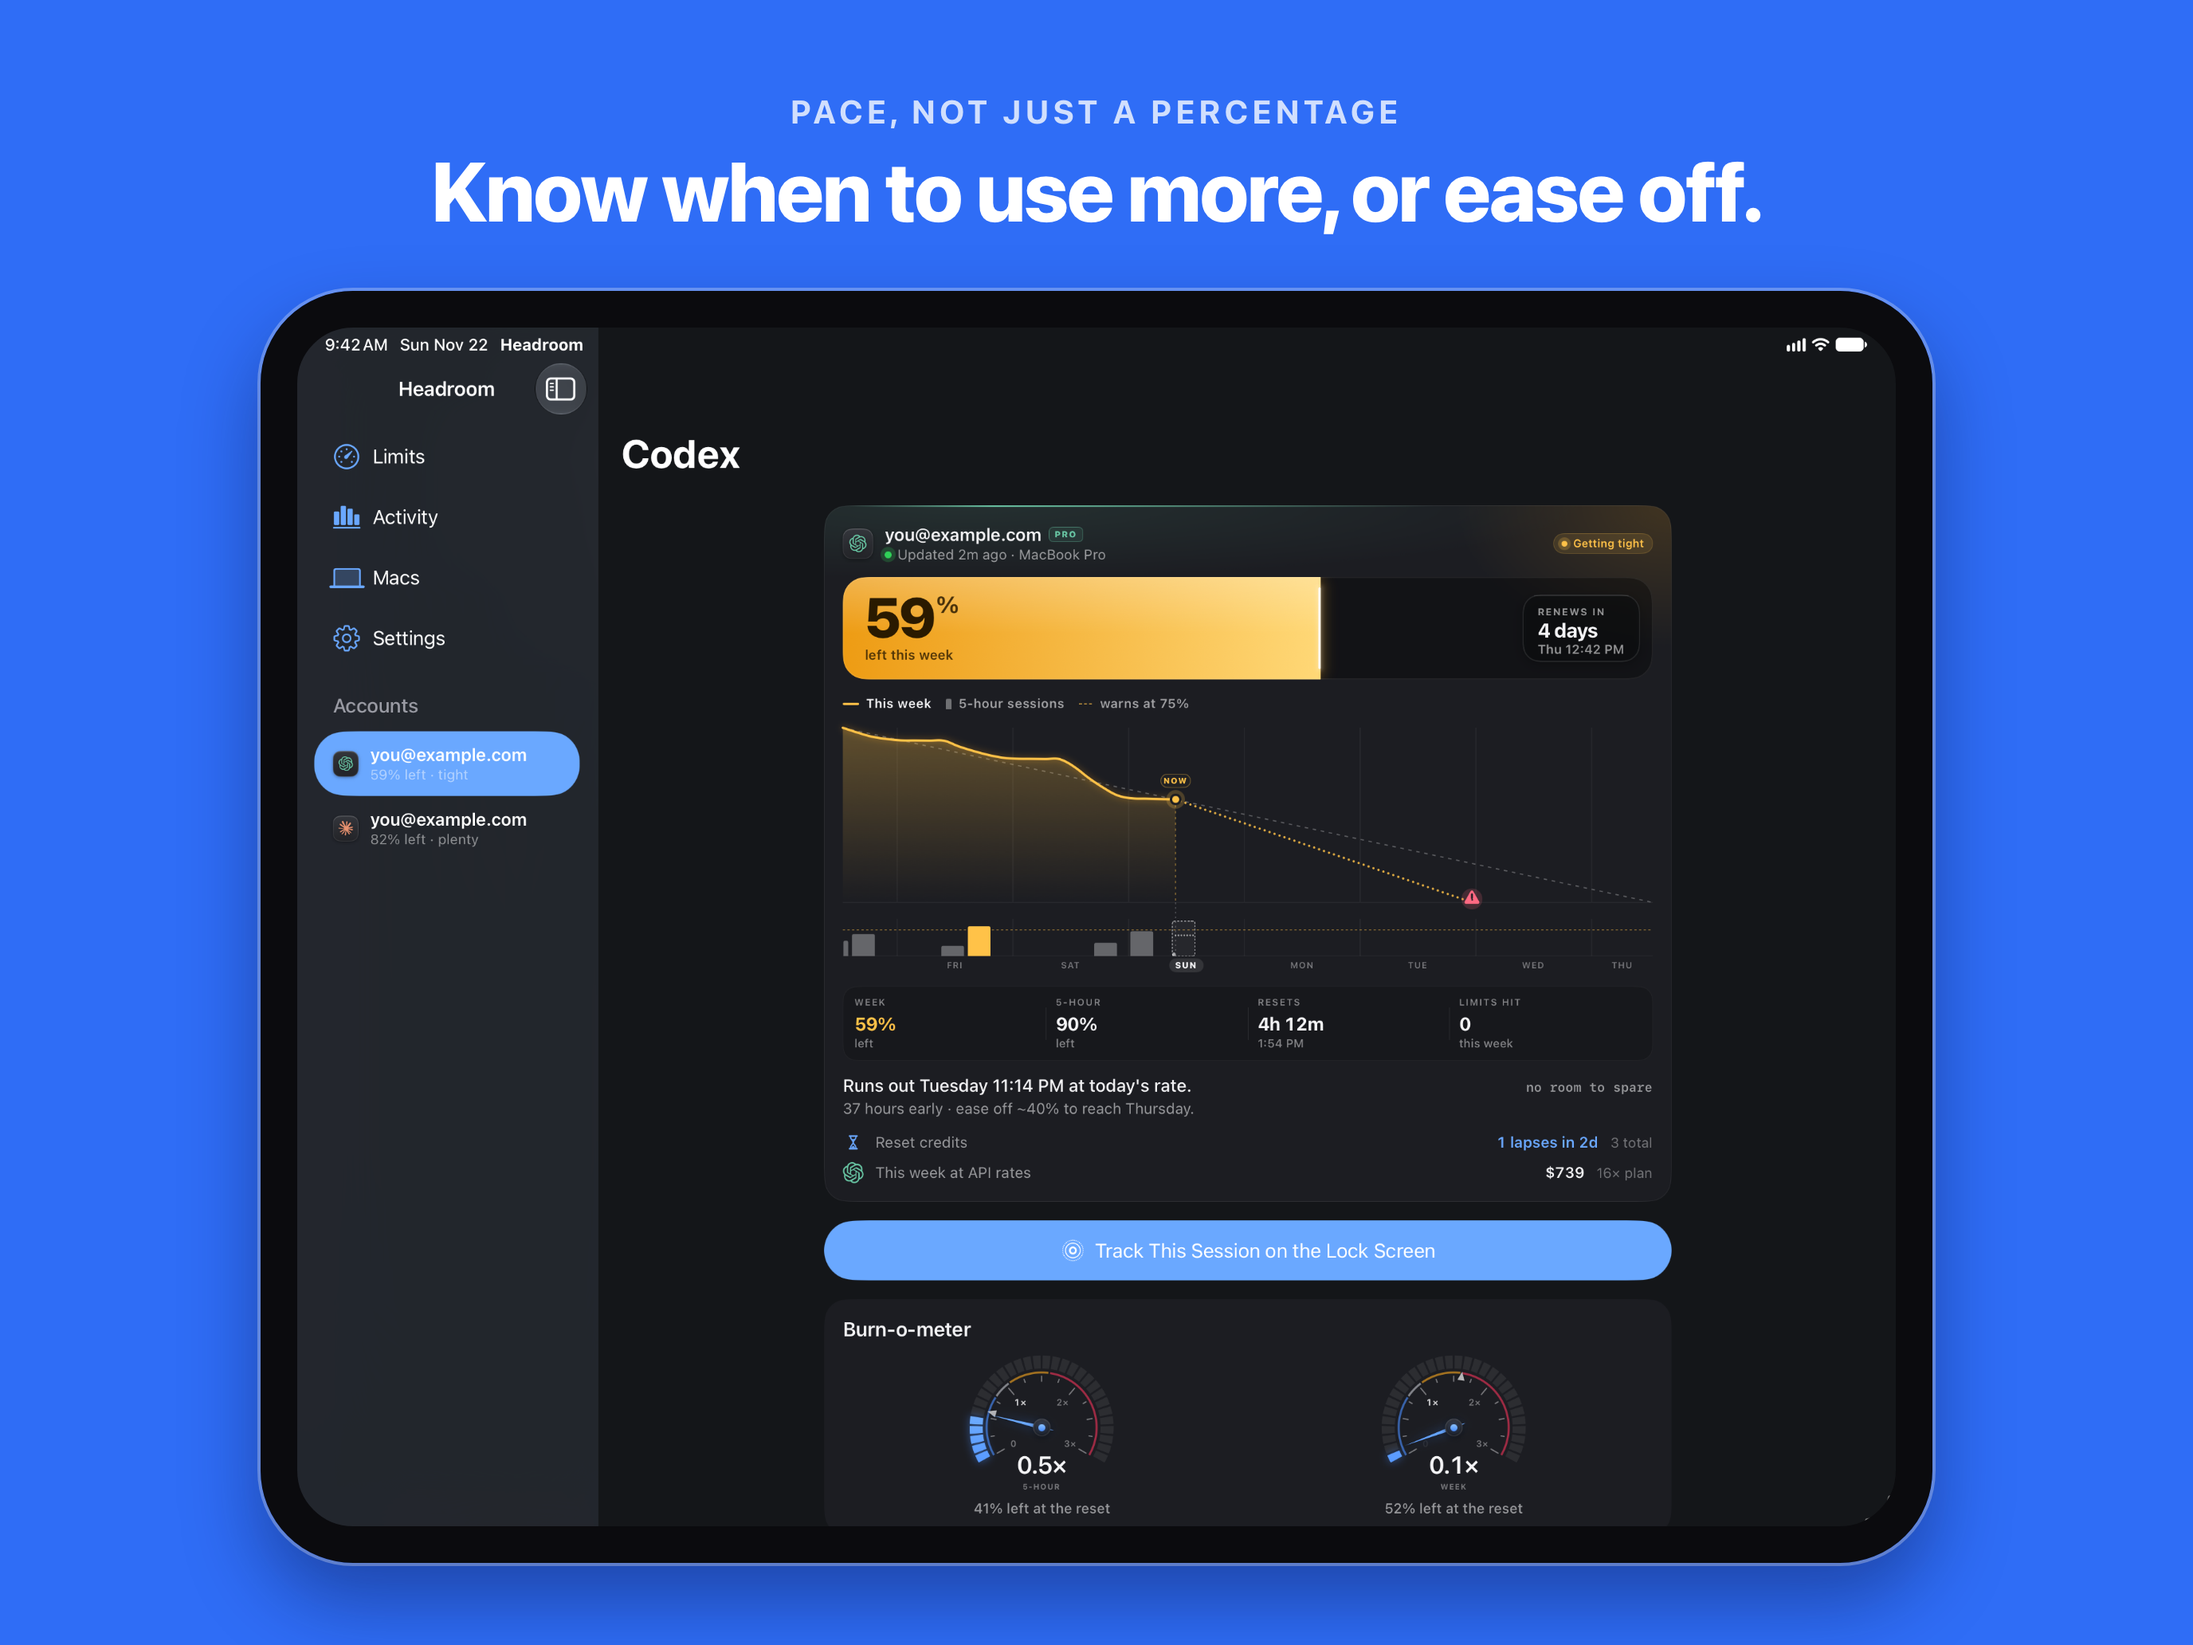
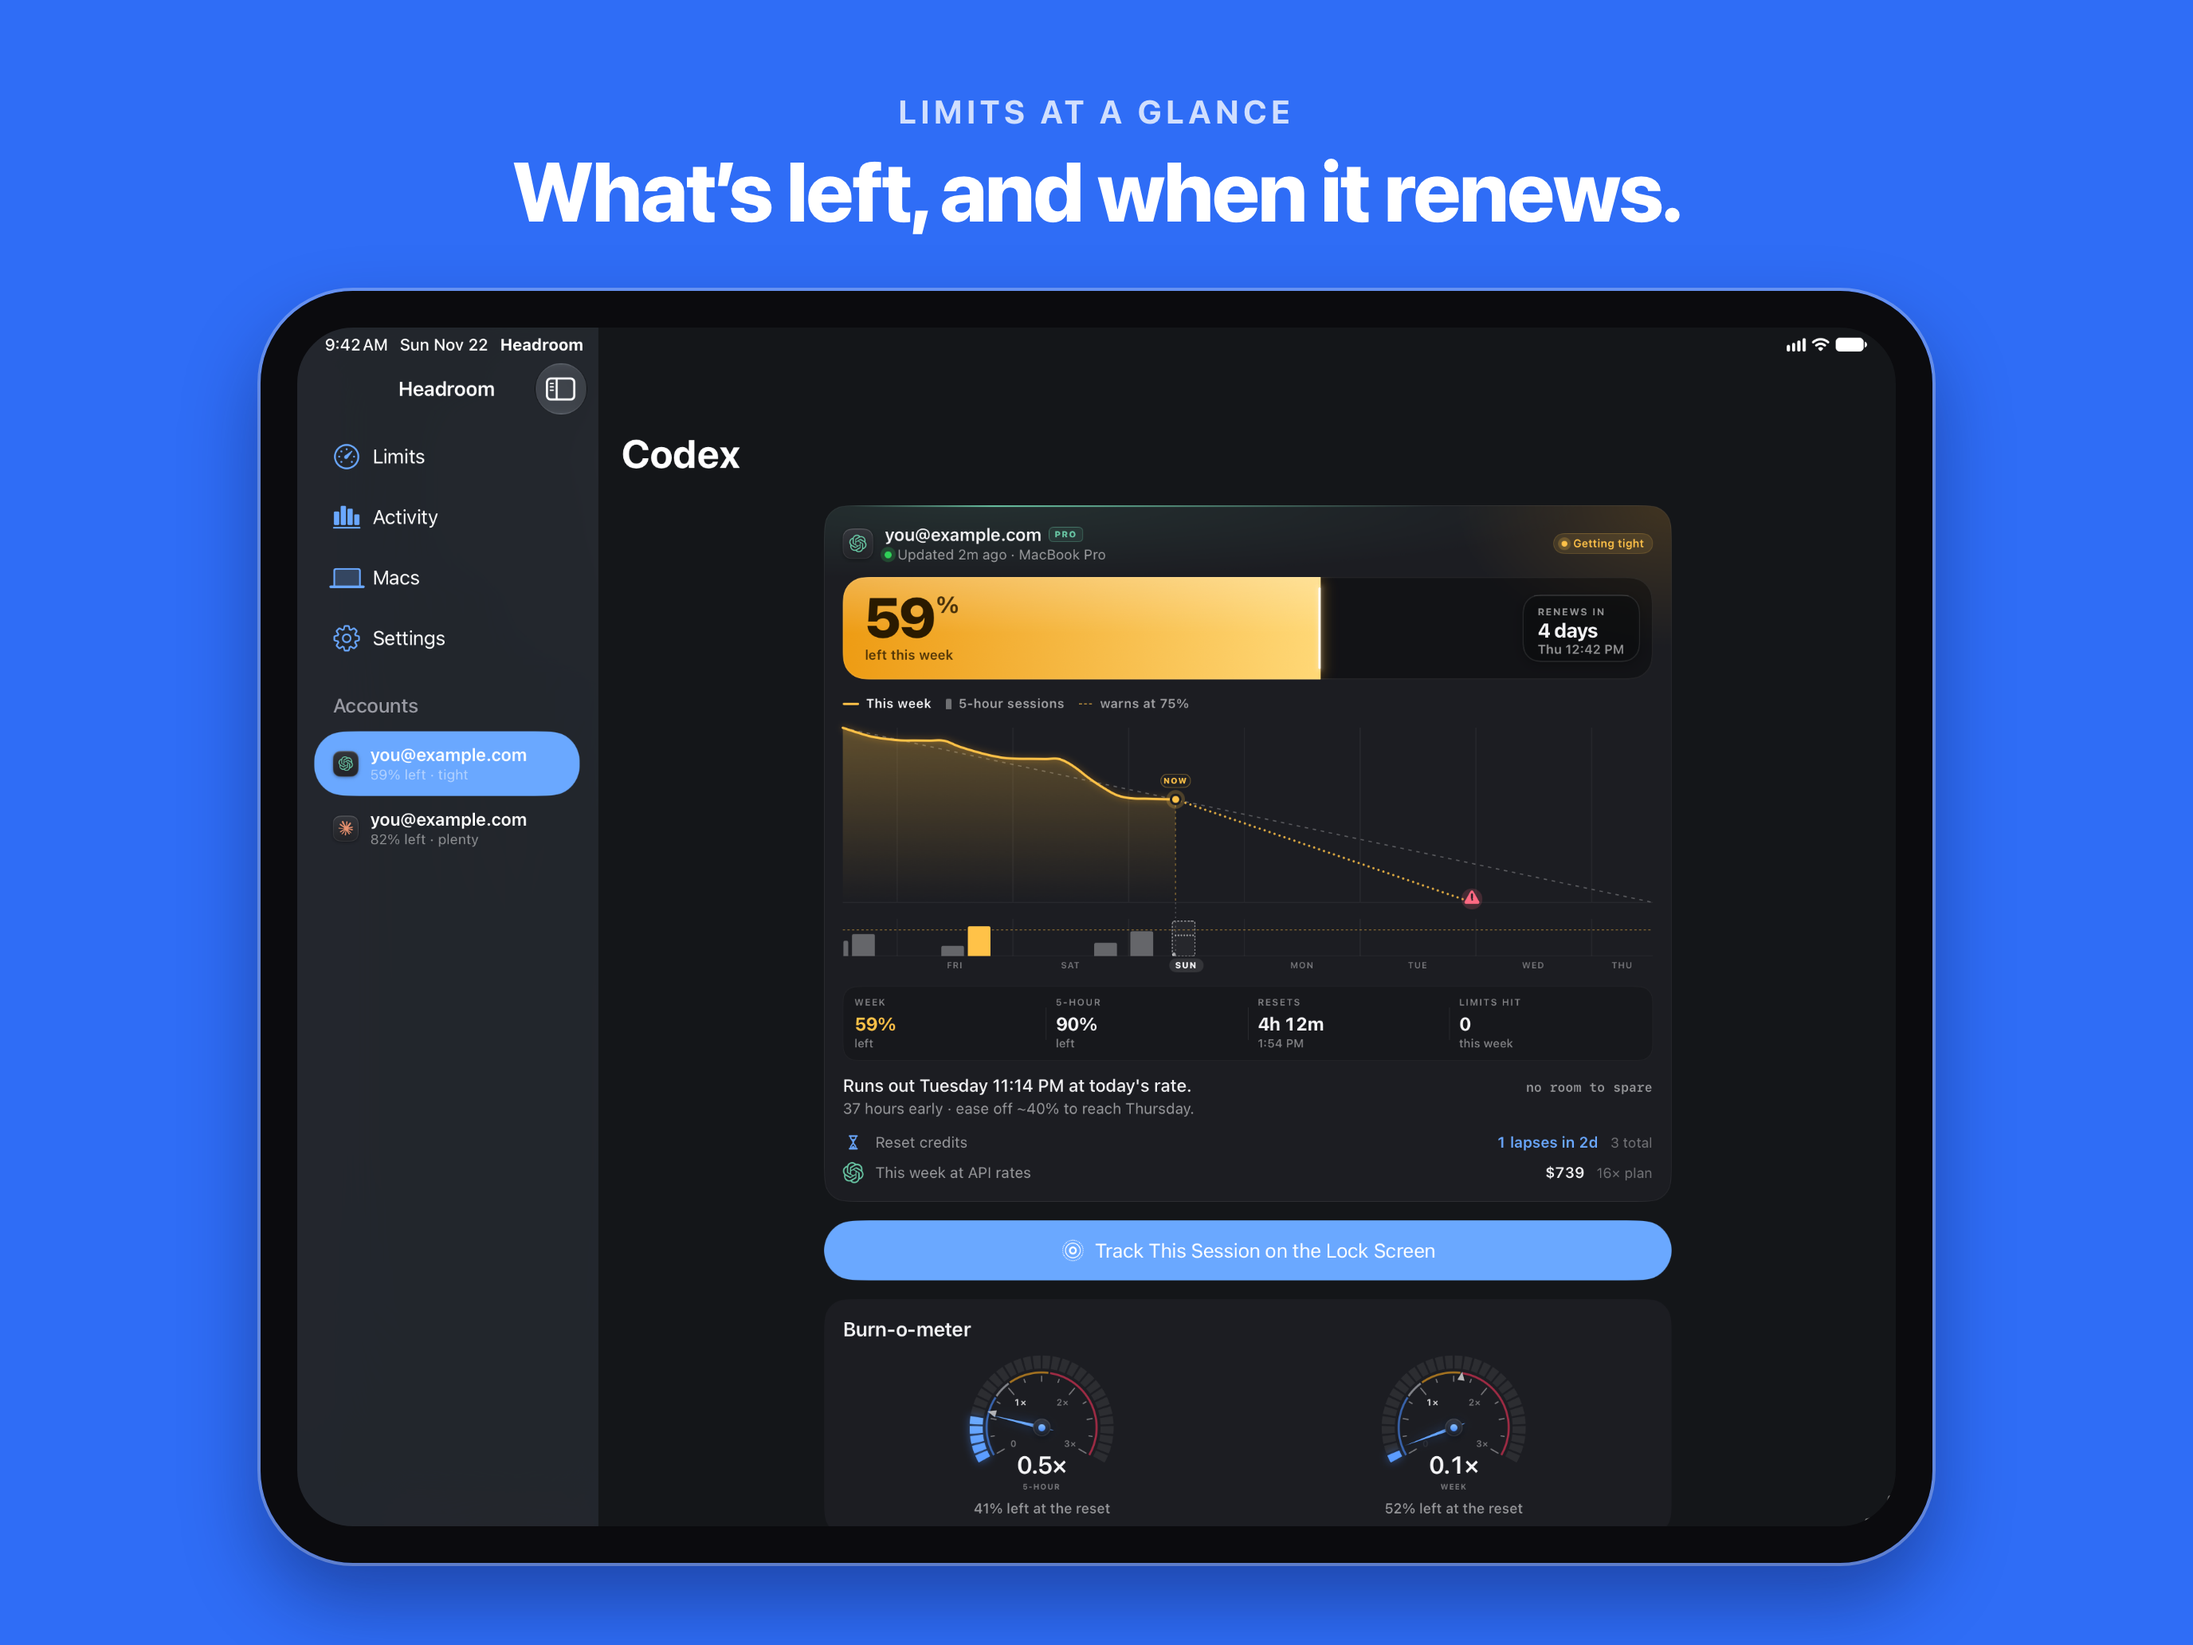
docs(appstore): captions say Limits and on track, not pace

Changed region(s): [[0.1875, 0.062, 0.8125, 0.155]]

diff --git a/Scripts/mobile_appstore_media.py b/Scripts/mobile_appstore_media.py
@@ -52,16 +52,16 @@ PREVIEW_TARGETS = [
 # Headlines: (eyebrow, headline). Short phrases that add to the picture, not describe it.
 CAPTIONS = {
     "01-now": ("Claude & Codex limits", "Will this week’s allowance last?"),
-    "02-pace": ("Pace, not just a percentage", "Know when to use more, or ease off."),
+    "02-pace": ("Limits at a glance", "What’s left, and when it renews."),
     "03-session": ("5-hour sessions", "The limit you hit first, front and center."),
     "04-burn": ("Burn-o-meter", "See how fast you’re burning."),
     "05-history": ("History", "Every week and session, remembered."),
-    "05-on-pace": ("Every account", "Work and personal, each on its own pace."),
+    "05-on-pace": ("Every account", "Work and personal, each on its own track."),
     "06-activity": ("Activity", "See where the tokens go."),
     "07-activity-week": ("At API prices", "What your usage is worth."),
     "07-activity-month": ("At API prices", "What a month of usage is worth."),
     "08-lock-screen": ("Live Activity", "Your session, right on the Lock Screen."),
-    "08-on-pace": ("Every account", "Work and personal, each on its own pace."),
+    "08-on-pace": ("Every account", "Work and personal, each on its own track."),
     "08-light-account": ("Light or dark", "Easy on the eyes, day or night."),
     "09-macs": ("Every Mac", "Several Macs. One answer."),
     "10-light": ("Light or dark", "Easy on the eyes, day or night."),
@@ -76,10 +76,10 @@ WATCH = [
     ("02-warning", "claude-top", "A heads-up before it runs out."),
     ("03-paused", "paused-top", "Know exactly when you’re back."),
     ("04-accounts", "team-top", "Every account, one swipe away."),
-    ("05-week", "codex-week", "Pace for the whole week."),
+    ("05-week", "codex-week", "Your whole week, at a glance."),
     ("06-plenty", "claude-week", "Room to spare? Spend it."),
     ("07-tight", "paused-week", "Ease off before it runs out."),
-    ("08-on-pace", "team-week", "Right on pace."),
+    ("08-on-pace", "team-week", "Right on track."),
     ("09-sessions", "codex-foot", "Recent sessions at a glance."),
     ("10-updated", "claude-foot", "Always the latest from your Mac."),
 ]
